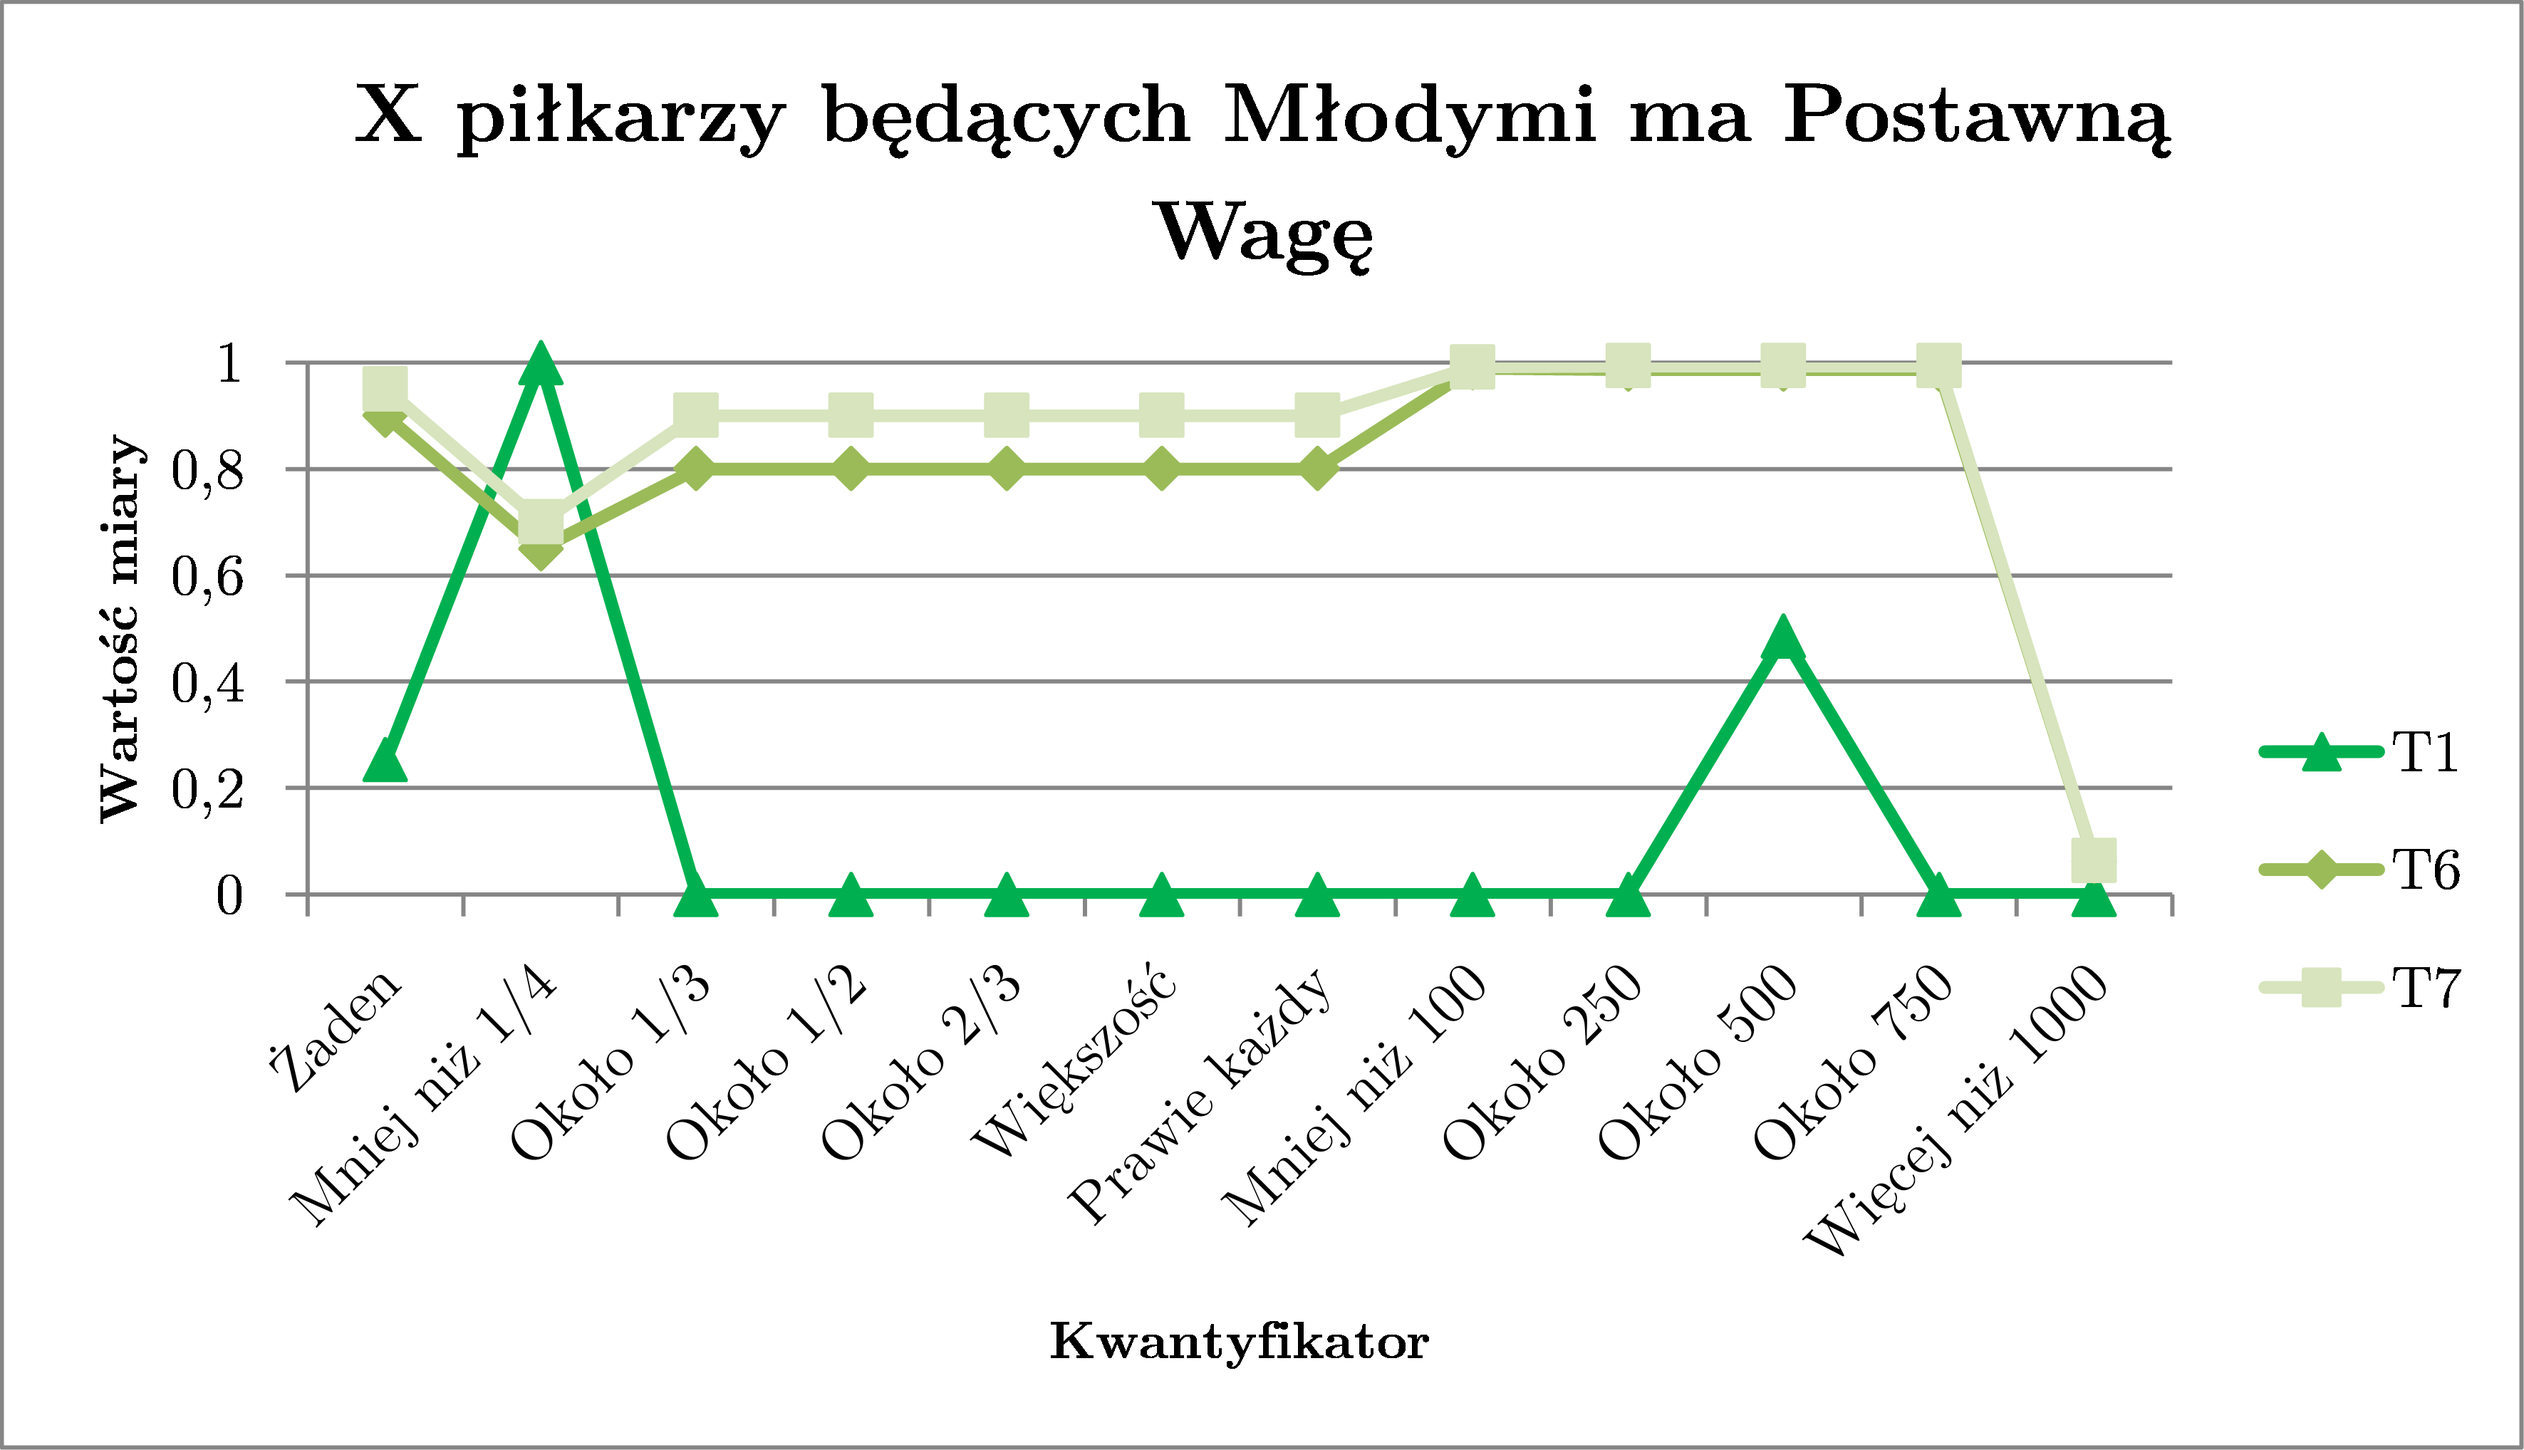
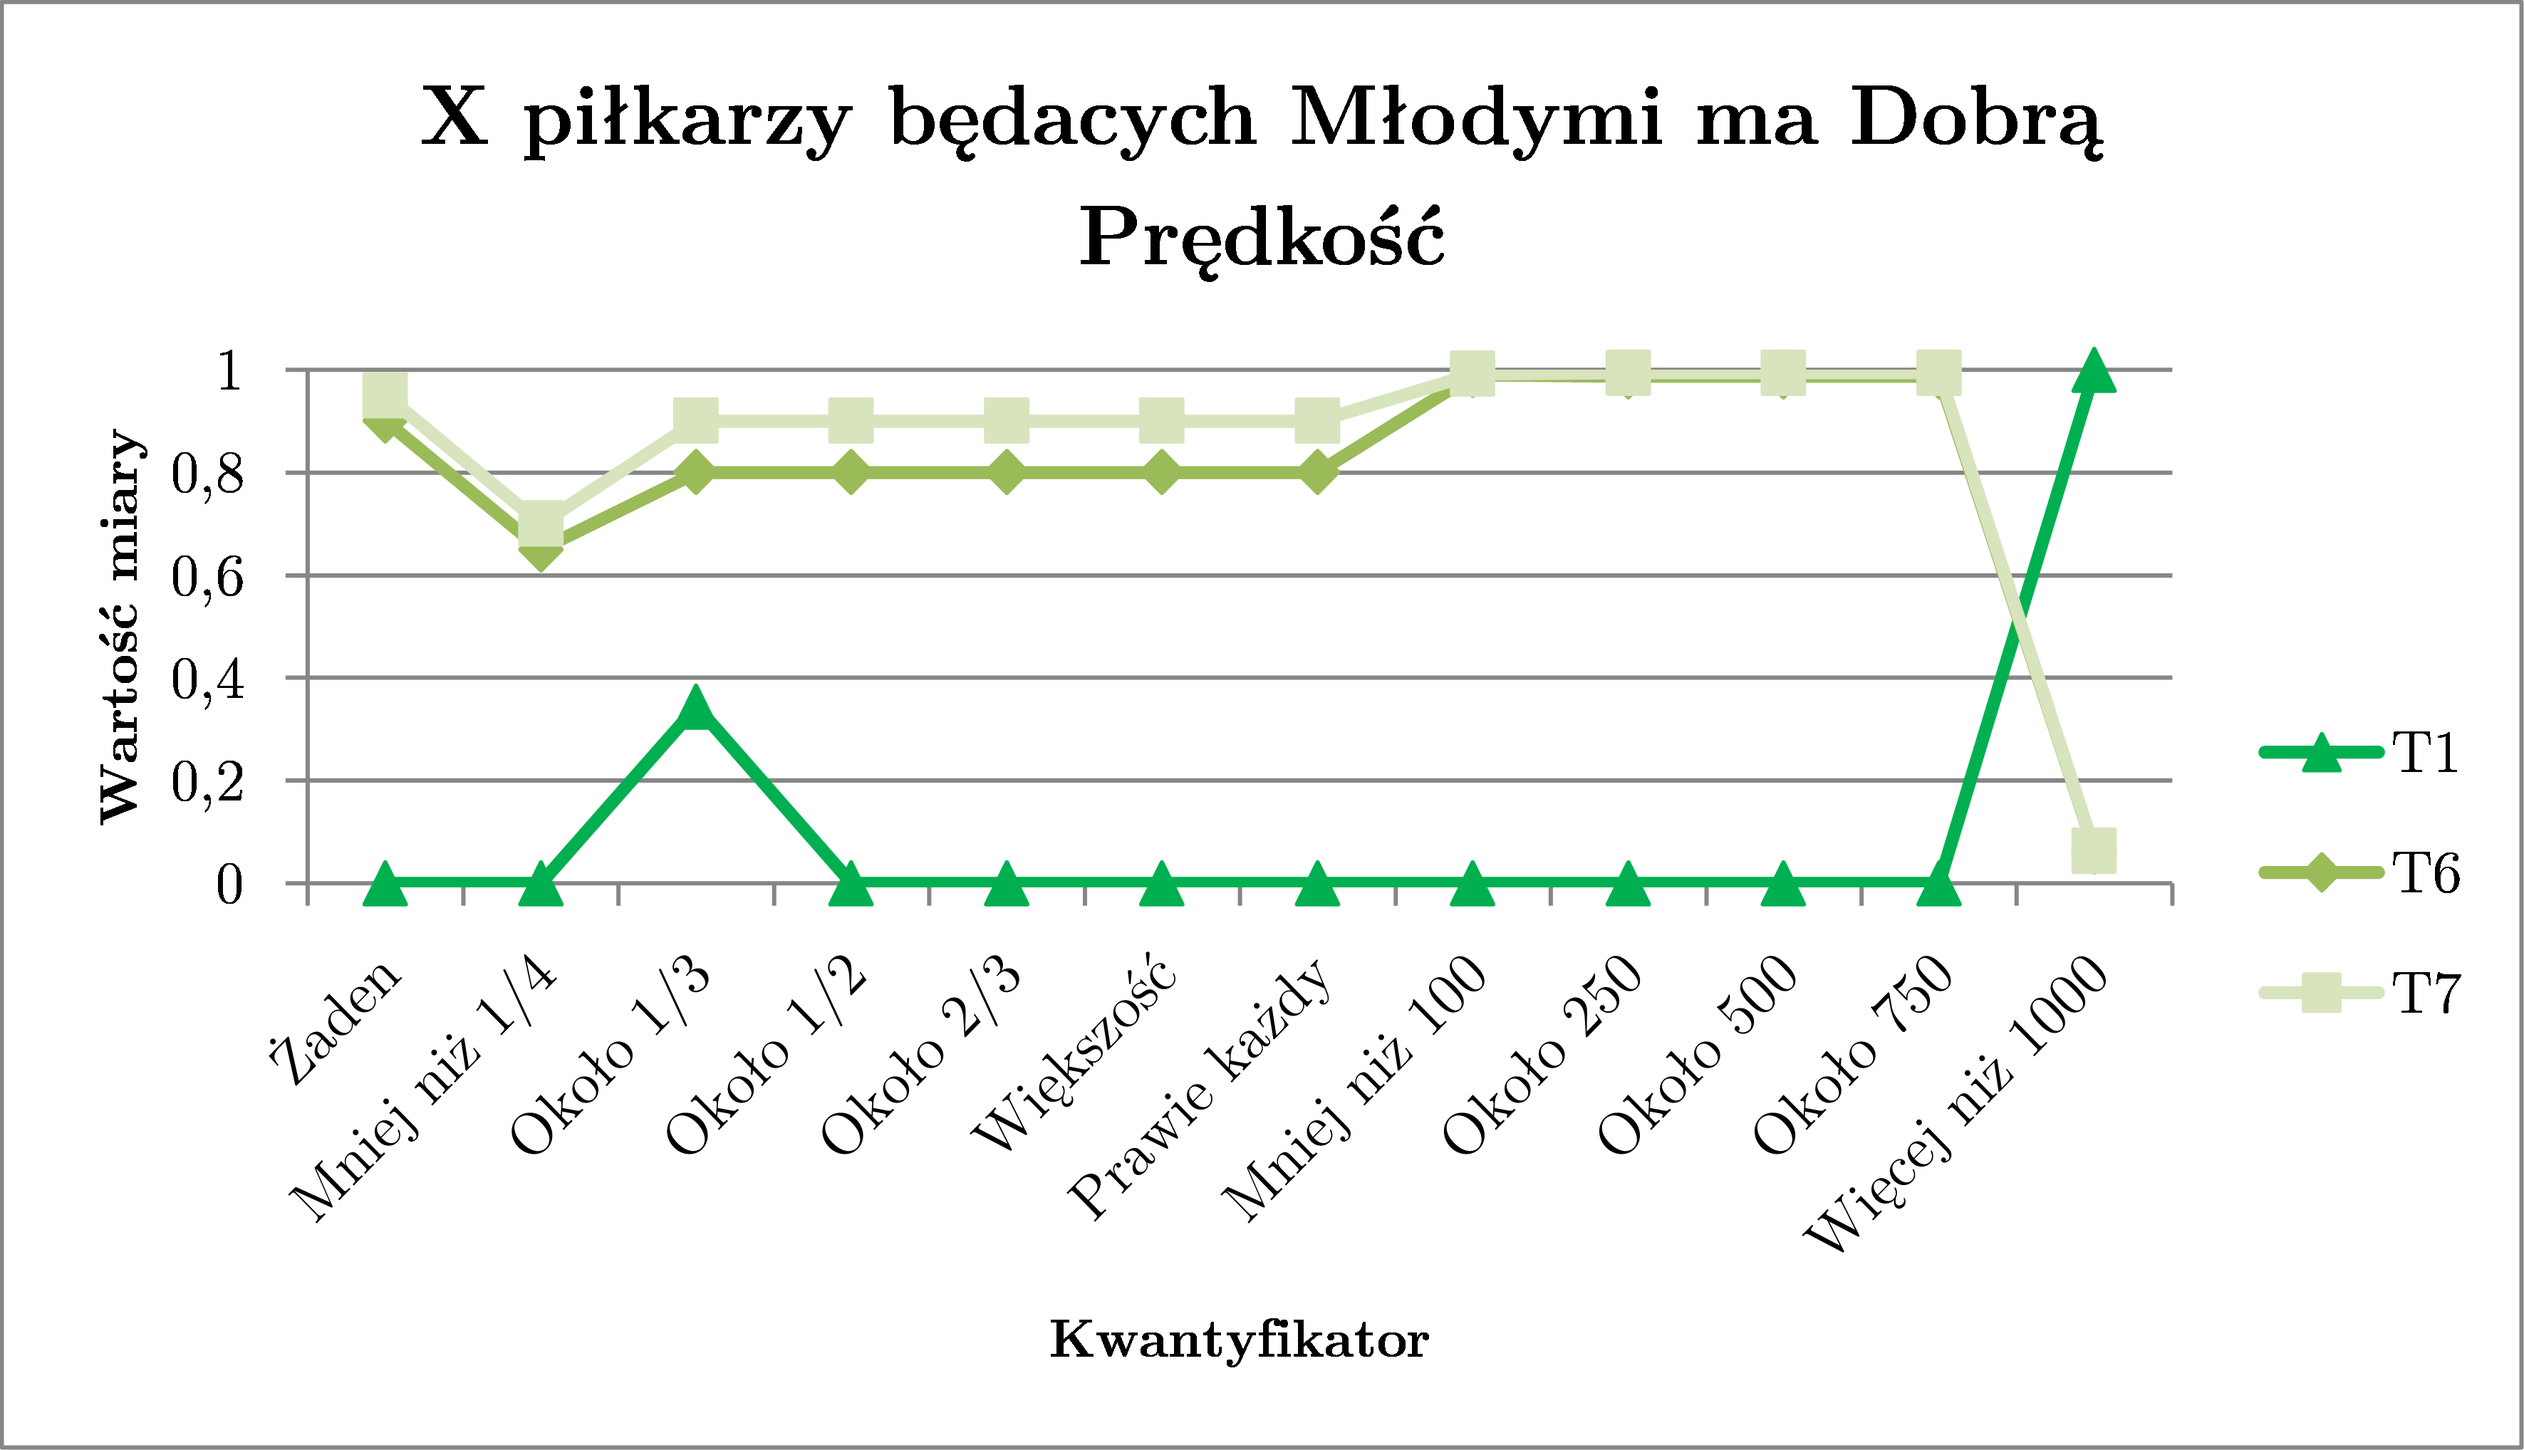
Changed study p1

diff --git a/Zadanie 2 - Sprawozdanie/Zadanie2.tex b/Zadanie 2 - Sprawozdanie/Zadanie2.tex
@@ -592,15 +592,15 @@ Poniższej umieszczone tabele oraz wykresy są wynikami przeprowadzonych przez n
 		\textbf{Kwantyfikator} & \textbf{T1} & \textbf{T6} & \textbf{T7}\\ [0.5ex] 
 		\hline
 		\hline 
-		Żaden & 0.208 & 0.9 & 0.95 \\ 
-		Mniej niż 1/4 & 1 & 0.65 & 0.7 \\
+		Żaden & 0 & 0.9 & 0.95 \\ 
+		Mniej niż 1/4 & 0 & 0.65 & 0.7 \\
 		Około 1/3 & 0 & 0.8 & 0.9 \\
-		Około 1/2 & 0 & 0.8 & 0.9 \\
-		Około 2/3 & 0 & 0.8 & 0.9 \\
+		Około 1/2 & 0.238 & 0.8 & 0.9 \\
+		Około 2/3 & 0.162 & 0.8 & 0.9 \\
 		Większość & 0 & 0.8 & 0.9  \\
 		Prawie każdy & 0 & 0.8 & 0.9  \\
 		Mniej niż 100 & 0 & 0.99 & 0.992  \\
-		Około 250 & 0.189 & 0.987 & 0.994  \\
+		Około 250 & 0.292 & 0.987 & 0.994  \\
 		Około 500 & 0 & 0.987 & 0.994  \\
 		Około 750 & 0 & 0.987 & 0.994  \\
 		Więcej niż 1000 & 0 & 0.062 & 0.063  \\
@@ -623,18 +623,18 @@ Poniższej umieszczone tabele oraz wykresy są wynikami przeprowadzonych przez n
 		\textbf{Kwantyfikator} & \textbf{T1} & \textbf{T6} & \textbf{T7}\\ [0.5ex] 
 		\hline
 		\hline 
-		Żaden & 0.253 & 0.9 & 0.95 \\ 
-		Mniej niż 1/4 & 1 & 0.65 & 0.7 \\
-		Około 1/3 & 0 & 0.8 & 0.9 \\
+		Żaden & 0 & 0.9 & 0.95 \\ 
+		Mniej niż 1/4 & 0 & 0.65 & 0.7 \\
+		Około 1/3 & 0.344 & 0.8 & 0.9 \\
 		Około 1/2 & 0 & 0.8 & 0.9 \\
 		Około 2/3 & 0 & 0.8 & 0.9 \\
 		Większość & 0 & 0.8 & 0.9  \\
 		Prawie każdy & 0 & 0.8 & 0.9  \\
 		Mniej niż 100 & 0 & 0.99 & 0.992  \\
 		Około 250 & 0 & 0.987 & 0.994  \\
-		Około 500 & 0.485 & 0.987 & 0.994  \\
+		Około 500 & 0 & 0.987 & 0.994  \\
 		Około 750 & 0 & 0.987 & 0.994  \\
-		Więcej niż 1000 & 0 & 0.987 & 0.063  \\
+		Więcej niż 1000 & 1 & 0.987 & 0.063  \\
 		\hline
 	\end{tabular}
 	\caption{Przyporządkowane parametry dla kwantyfikatora absolutnego.}
